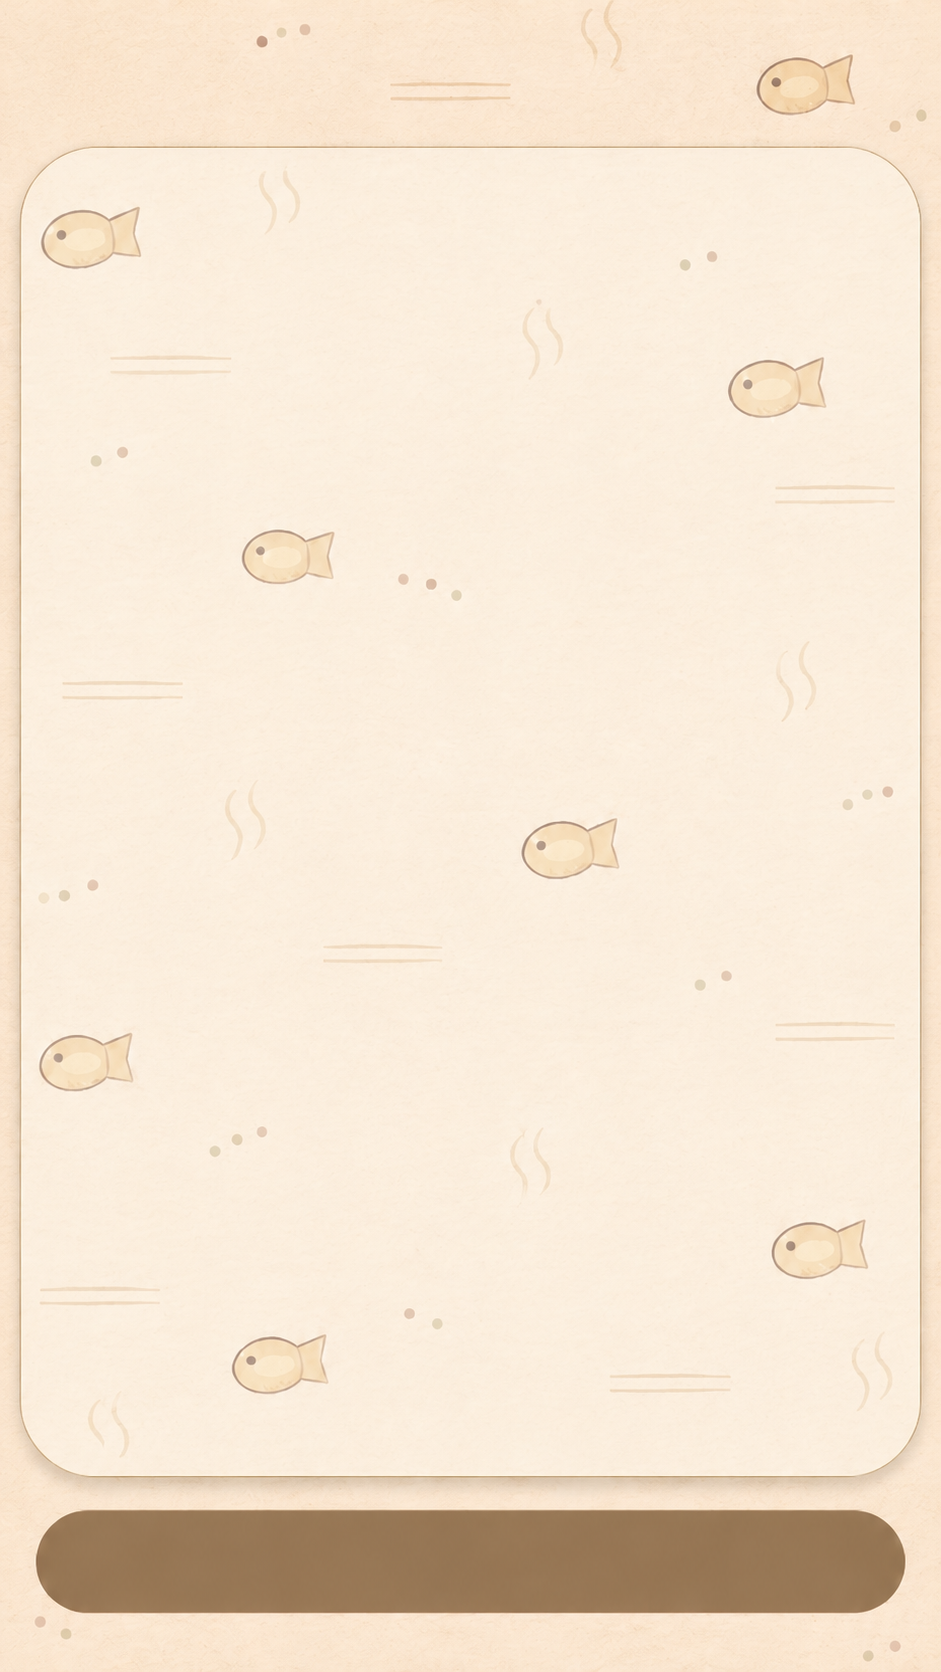
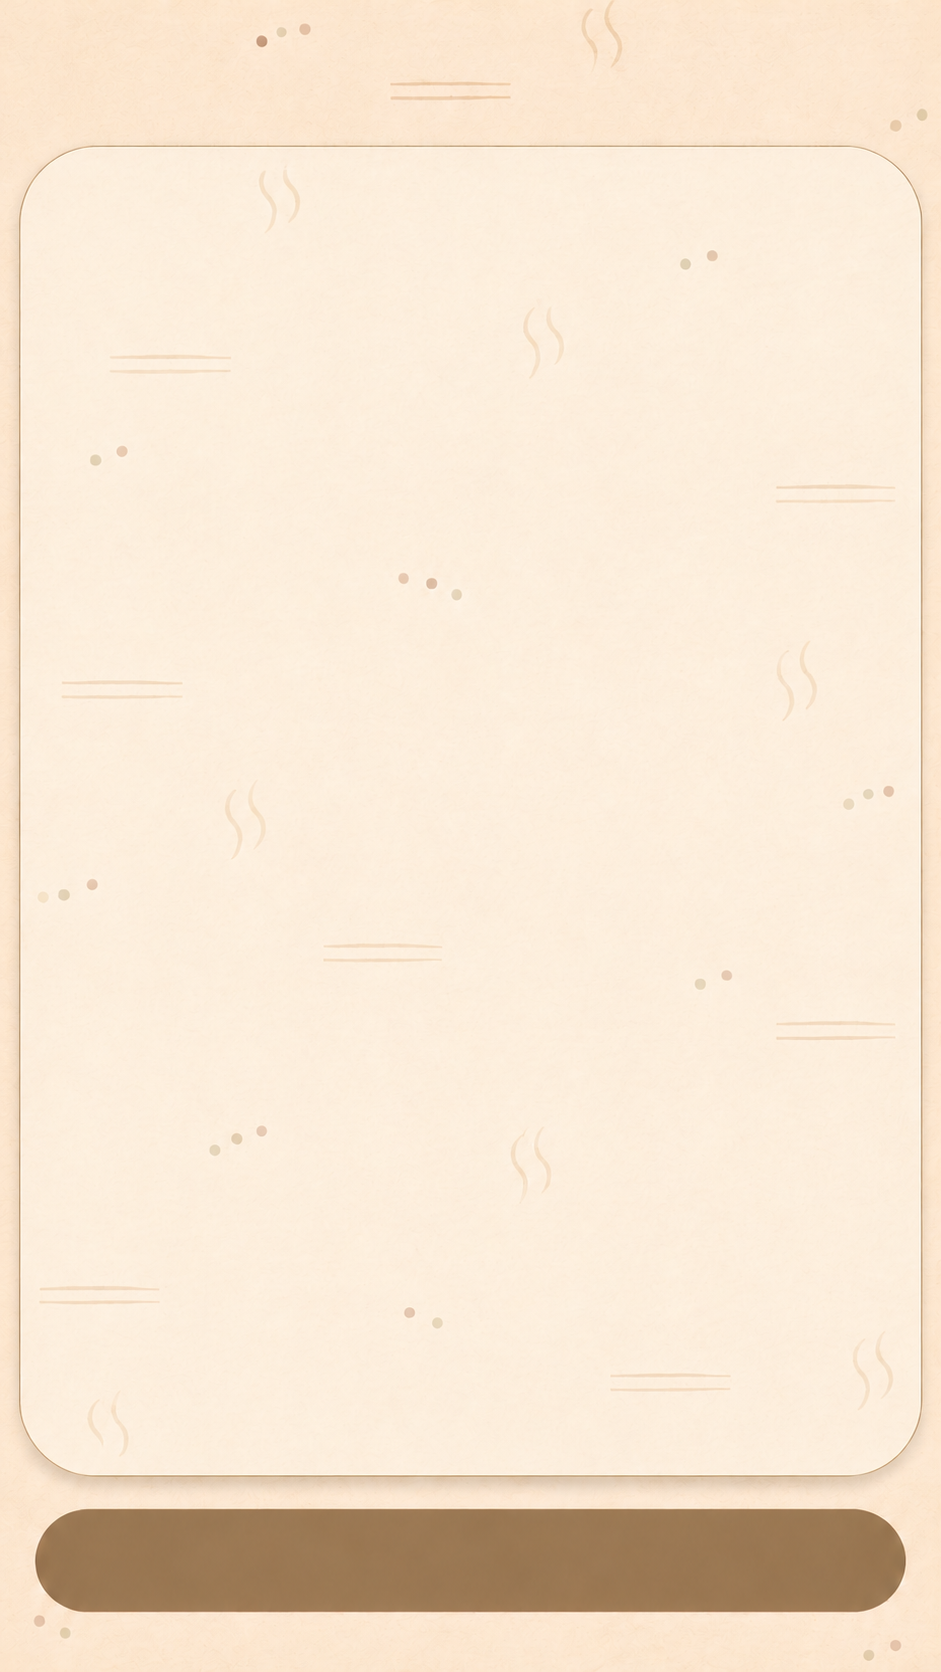
배경 무늬를 붕어빵 없는 김·점·줄 시안으로 교체
갈색 막대는 시안에 있지만 쓰지 않는다.

diff --git a/src/styles/global.css b/src/styles/global.css
@@ -54,9 +54,9 @@ body {
   min-height: 100dvh;
 }
 
-/* --- 붕어빵 무늬 종이 배경 ---
+/* --- 김·점 무늬 종이 배경 --- (아래 갈색 막대는 시안에 있지만 쓰지 않는다) */
    체크인 흐름·기법·마무리·일기 화면에 쓴다. 바깥은 살구빛 종이,
-   안쪽은 둥근 카드에 붕어빵 무늬. 무늬는 세로로 이어 붙여서
+   안쪽은 둥근 카드에 김·점·줄 무늬. 무늬는 세로로 이어 붙여서
    내용이 길어져도 늘어나지 않는다.
    원본 design/screen-bg-source.png → tools/paper-tile.mjs */
 /* 넓은 화면에서 카드 양옆도 같은 종이색으로 (색은 아래 --paper-outer 와 같다) */

diff --git a/vite.config.ts b/vite.config.ts
@@ -13,7 +13,7 @@ export default defineConfig({
       workbox: {
         // 기본값은 js/css/html 뿐이라 글꼴과 노점 사진이 빠졌다.
         // 둘 다 없으면 오프라인에서 간판 글씨와 홈 배경이 사라진다.
-        // 붕어빵 무늬 종이(paper-tile)도 체크인 화면 배경이라 같이 넣는다.
+        // 무늬 종이(paper-tile)도 체크인 화면 배경이라 같이 넣는다.
         globPatterns: [
           '**/*.{js,css,html}',
           'assets/*.woff2',

diff --git a/src/styles/tokens.css b/src/styles/tokens.css
@@ -1,4 +1,4 @@
-/* .app-paper(붕어빵 무늬 종이 배경 화면)는 바탕 그림이 밝아서
+/* .app-paper(무늬 종이 배경 화면)는 바탕 그림이 밝아서
    어두운 모드에서도 밝은 색 값을 그대로 쓴다. */
 :root,
 .app-paper {
